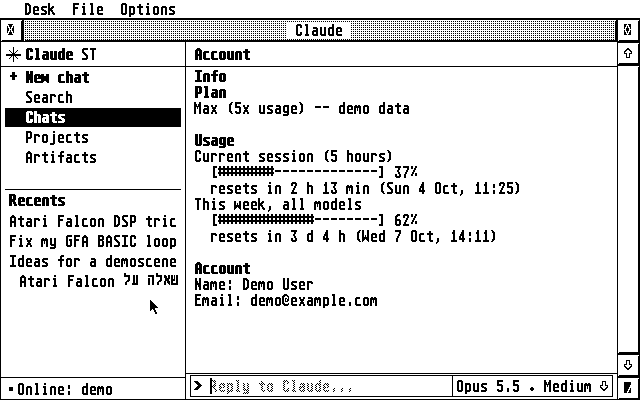
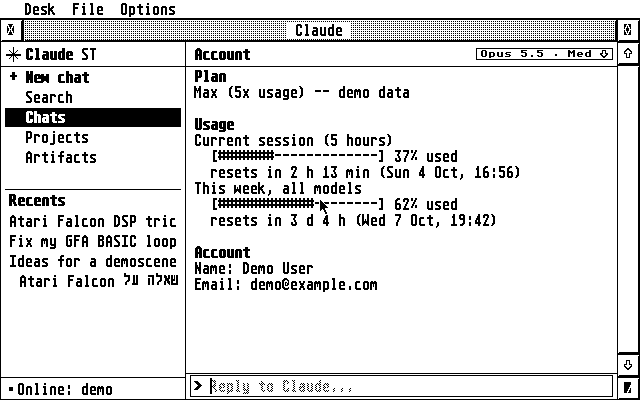
Account page without the "Info" label
A new message role X is a page with its own headings: the Account page
now starts directly with Plan, then Usage and Account. Version 1.6.

Claude-Session: https://claude.ai/code/session_01XDMzbpSWQjz39M7P3K7C1y

diff --git a/st/claude.c b/st/claude.c
@@ -15,7 +15,7 @@
 #include "icon.h"
 #include "icon16.h"
 
-#define VERSION "1.5"
+#define VERSION "1.6"
 
 /* ------------------------------------------------------------------ */
 /* state                                                               */
@@ -641,6 +641,8 @@ static void begin_message(char role)
 			append("\n", 1);
 		append("\n", 1);
 	}
+	if (role == 'X')	/* a page (Account): its own headings, no label */
+		return;
 	hdr[0] = MK_HEADER;
 	hdr[1] = role;
 	hdr[2] = '\n';

diff --git a/bridge/test_bridge.py b/bridge/test_bridge.py
@@ -576,6 +576,7 @@ class AccountPage(unittest.TestCase):
         Session(link, DemoBackend()).handle(b"ACCOUNT")
         lines = link.lines()
         self.assertIn([b"T", b"Account"], lines)
+        self.assertIn([b"M", b"X"], lines)        # no "Info" label
         self.assertIn([b"H", b"Plan"], lines)
         self.assertIn([b"H", b"Usage"], lines)
         self.assertIn([b"H", b"Account"], lines)

diff --git a/bridge/claude_bridge.py b/bridge/claude_bridge.py
@@ -392,7 +392,7 @@ class Session:
         report = self.be.account_report()
         self.out("T", "Account")
         self.out("R")
-        self.message("I", report)
+        self.message("X", report)     # a page: no "Info" label above it
         self.online()
 
     def cmd_choose(self, model="", effort="", *_):

diff --git a/PROTOCOL.md b/PROTOCOL.md
@@ -29,7 +29,7 @@ flow control). The protocol is the same on both.
 | `SAVE` `ARTIFACT` `<id>` | The user wants to save an artifact; the bridge answers `F`. |
 | `FETCH` `ARTIFACT` `<id>` | Send the artifact's data (`D` lines, then `G`). |
 | `CHOOSE` `<model id>` `<effort>` | Use this model and effort for the open chat and for new chats. The bridge answers with the model lists and `K`; an unknown model is ignored and an effort the model doesn't take becomes its default. Sent after connecting if `CLAUDE.INF` holds a choice. |
-| `ACCOUNT` | Show the Account page: the bridge answers `T Account`, `R` and an info message with Plan, Usage and Account sections. |
+| `ACCOUNT` | Show the Account page: the bridge answers `T Account`, `R` and an `X` message with Plan, Usage and Account sections. |
 | `BYE` | Claude ST is quitting. |
 
 ## Bridge → Atari
@@ -49,7 +49,7 @@ All commands are one letter.
 | `C` `<id>` | Id of the open chat (highlighted in the sidebar). |
 | `T` `<title>` | Conversation title. |
 | `R` | Clear the conversation pane. |
-| `M` `<role>` | Begin a message: `U` you, `A` Claude, `K` artifact, `I` info, `E` error. |
+| `M` `<role>` | Begin a message: `U` you, `A` Claude, `K` artifact, `I` info, `E` error, `X` a page with no label (the Account page). |
 | `P` `<text>` | Append text to the current paragraph (streamed replies arrive as many `P`s). |
 | `B` | Line break / new paragraph. |
 | `H` `<text>` | A bold heading line. |
